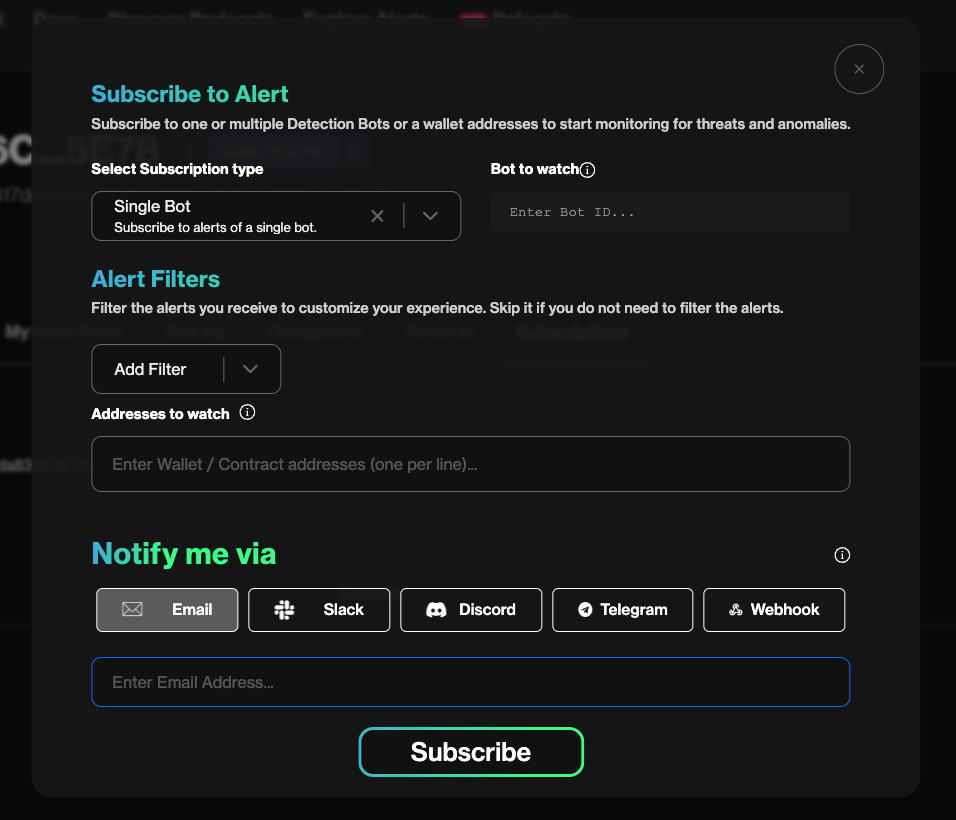
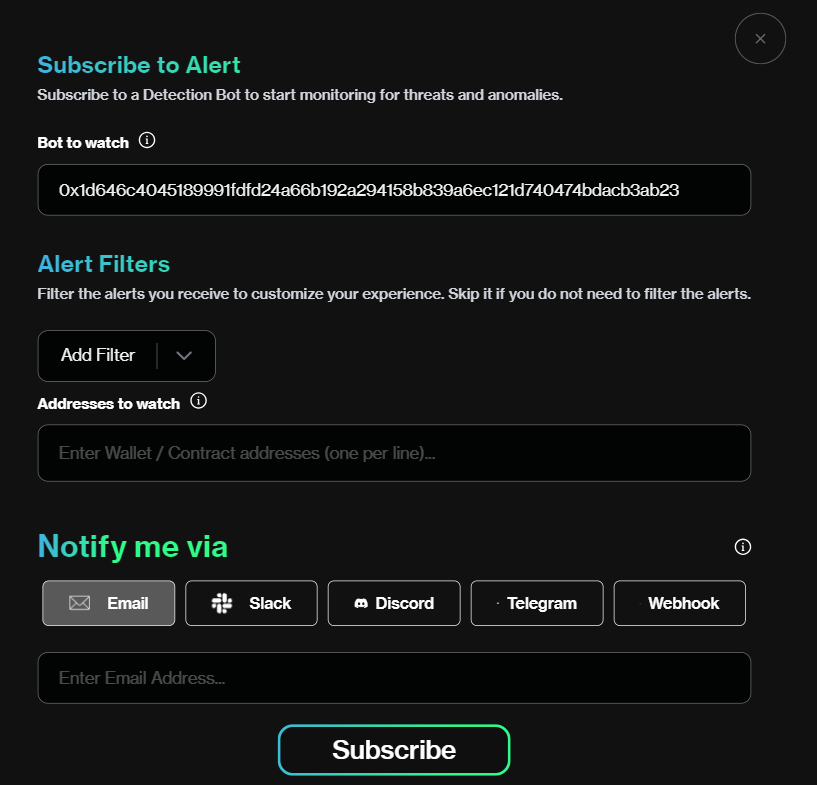
New subscriptions page

diff --git a/docs/subscribing-to-bot.md b/docs/subscribing-to-bot.md
@@ -4,40 +4,48 @@ The Forta Network allows users to access the intel generated by detection bots t
 
 Here’s a step-by-step guide to subscribing directly to a bot:
 
- ## Subscribing from the Bot’s Profile Page
+## Subscribing from the Bot’s Profile Page
 
-Step 1: Click on the bot you want to subscribe to. When you’re on the bot’s profile page, click on the “Subscribe to this bot” button. 
+Step 1: Search for the detection bot you’d like to receive alerts from and go to its profile page in the Forta App. Make sure to sign in to the App with your wallet.
+
+Once in the bot’s profile page, click on the “Subscribe” button at the top right. 
+
+!!! info "Note"
+    You will only see the “Subscribe” button if you have already purchased the corresponding plan (or received a free trial) with the wallet you have signed in with.
+
+![suscribe to bot](Suscribe-to-bot-1.png)
 
 
-
-![suscribe to bot](Susbcribe-to-bot-1.png)
-
-
-Step 2: After you click “Subscribe to this bot”, you will be redirected to the Forta App and prompted to sign in to your Metamask Wallet.  
+Step 2: A new window will appear with a subscription form with the Bot ID pre-filled. You will have the option to add custom filters (e.g. only receive alerts related to a specific address), and be asked to select your preferred notification channel (Slack, Telegram, Email, Discord or Webhook).  
  
-Step 3: Once you’ve connected your wallet, the new window will appear with the Bot ID pre-filled. You will have the option to add custom filters (e.g. by address), and be asked to select your preferred notification channel (Slack, Telegram, Email, Discord or Webhook). 
-
-
 
 ![alt_text](Suscribe-to-bot-2.png "image_tooltip")
 
+Step 3: After you’ve made your selections, click “Subscribe”. Depending on how active the bot is, you may start receiving alerts within a few minutes.
+ 
 
-Step 4: When you’ve made your selections, click “Subscribe”. Depending on how active the bot is, you may start receiving alerts within a few minutes. 
 
-## Subscribing to a Bot from the Forta App
+
+## Subscribing to a Bot My Subscriptions tab in Forta App
 
 Step 1: Navigate to [https://app.forta.network/](https://app.forta.network/) and connect your wallet. 
 
 Step 2: Click on your wallet address in the top right corner in order to reveal a dropdown menu and click on ‘My Subscriptions’.
 
-![alt_text](suscribe-to-bot-3.png "image_tooltip")
+![alt_text](Suscribe-to-bot-3.png "image_tooltip")
 
 Step 3: Here you can manage your list of different subscriptions. If this is your first time setting up a subscription, you will need to click on the purple ‘Add Subscription’ button and a window will appear. 
 
 
-![alt_text](suscribe-to-bot-4.png "image_tooltip")
+![alt_text](Suscribe-to-bot-4.png "image_tooltip")
 
 
 
 
-Step 4: Here you will be able to enter the bots or addresses you want to receive real time updates on and the method in which you would prefer to receive them. Simply add a Bot ID in order to receive alerts generated by a specific bot or add an EOA or contract address in order to receive any real time intel generated on those entities by the Forta Network. 
+Step 4: Here you will be able to enter the bots from which you want to receive real time alerts from and the method in which you would prefer to receive them. 
+
+Paste the Bot ID and configure your custom filters and notification channel.
+
+!!! info "Note"
+         The Bot ID can be found in each detection bot’s profile page. Simply click on the Bot ID and it will be copied to the clipboard.
+
